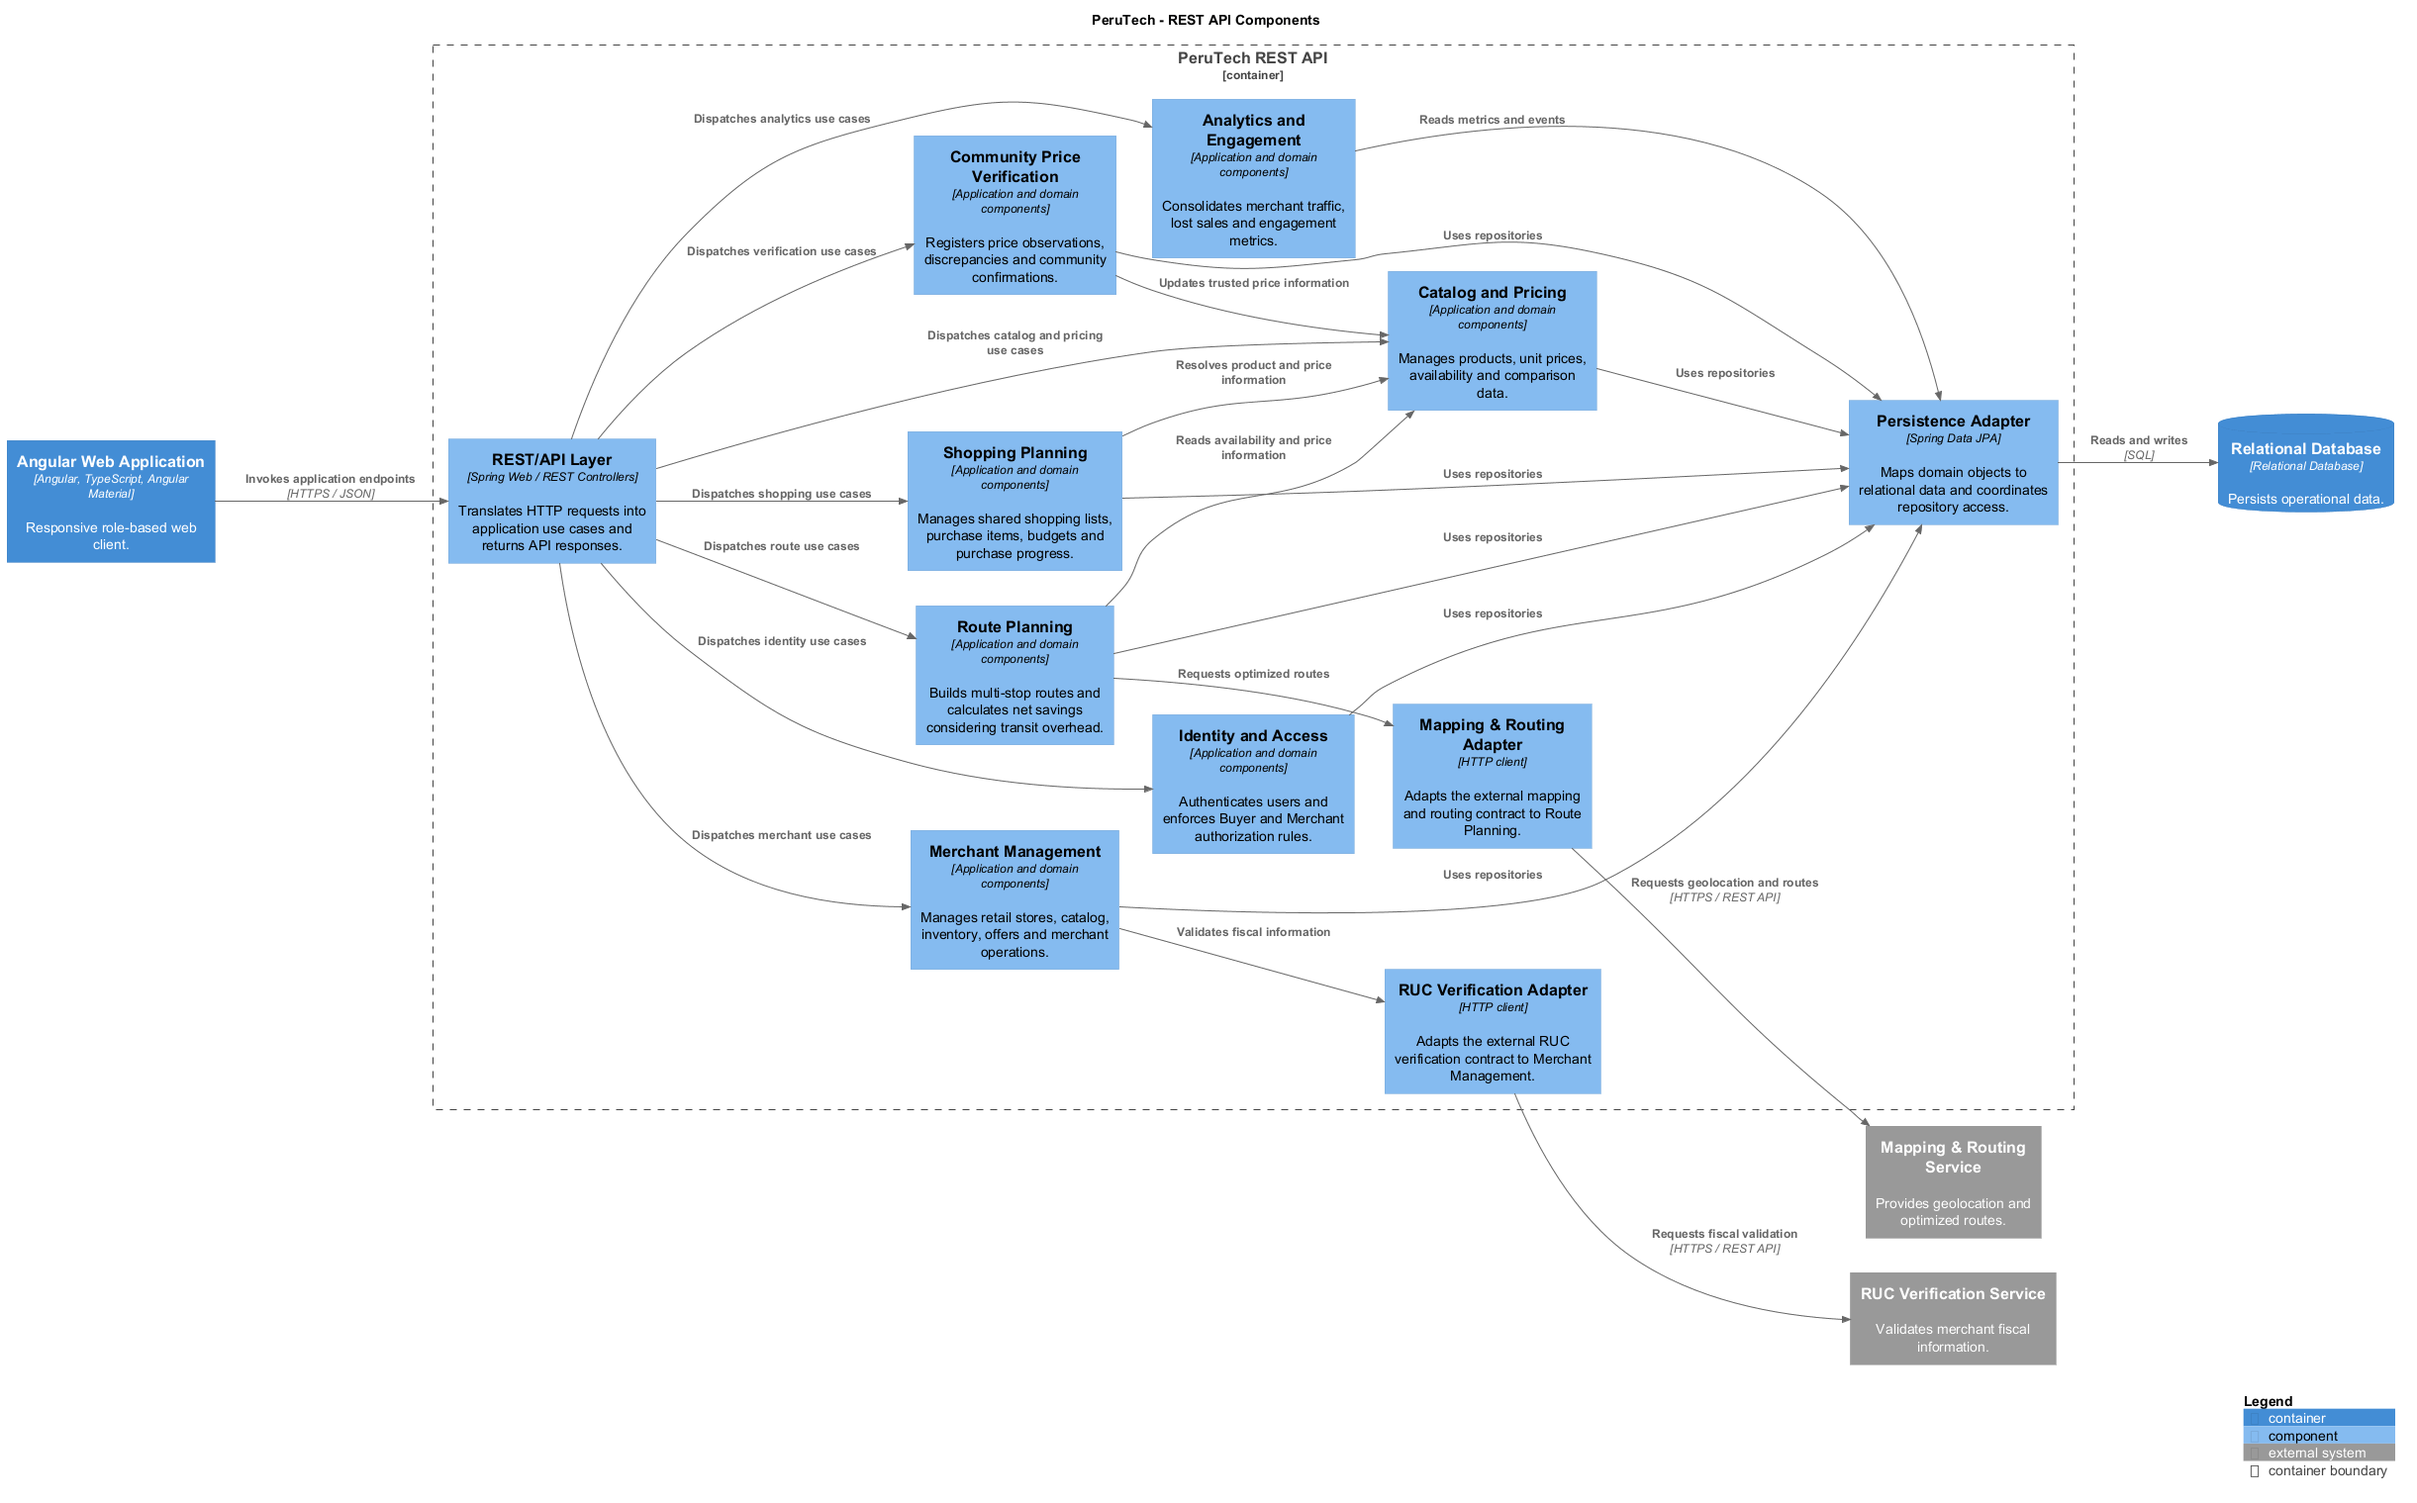
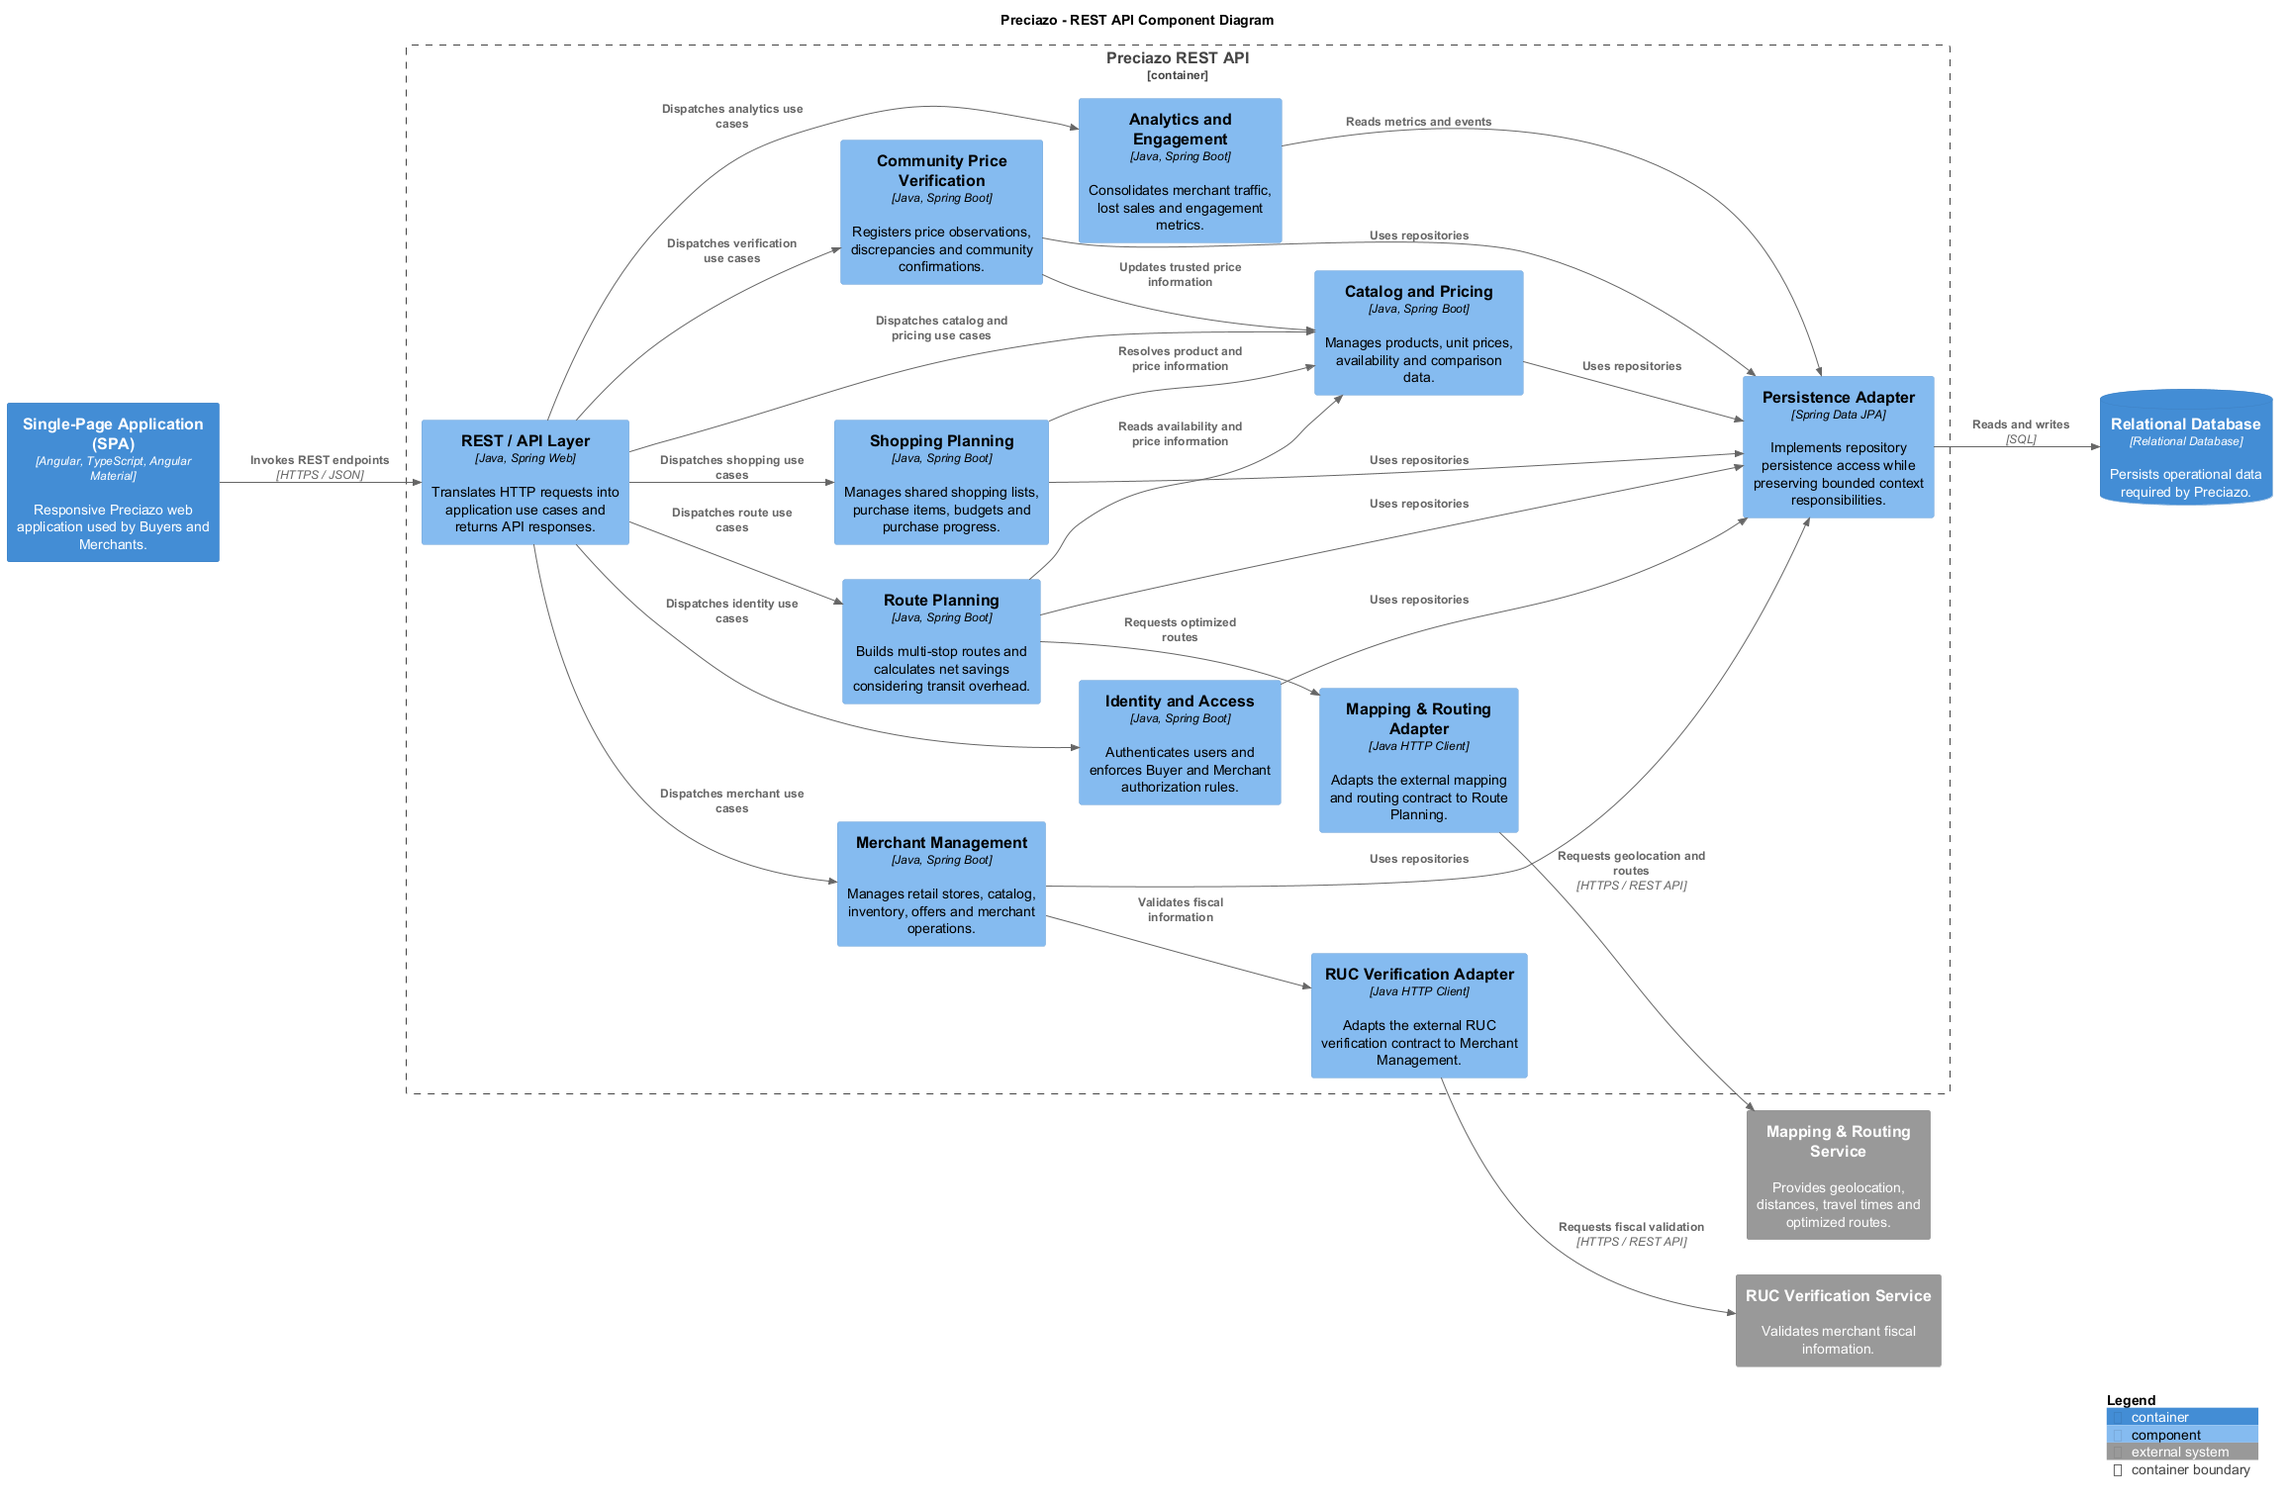
docs(architecture): align C4 components and report with Preciazo

diff --git a/docs/informe.md b/docs/informe.md
@@ -1526,19 +1526,25 @@ El resultado del proceso permitió organizar el dominio en siete Bounded Context
 
 ### 4.6.2. Software Architecture Context Diagram
 
-![PeruTech Software Architecture Context Diagram](../assets/architecture/c4-context.png)
+![Preciazo Software Architecture Context Diagram](../assets/architecture/c4-context.png)
 
 ### 4.6.3. Software Architecture Container Diagrams
 
-El diagrama de contenedores describe la arquitectura física y lógica de la solución. Se evidencia explícitamente la adopción de una **Single Page Application (SPA)** desarrollada en Angular para la experiencia interactiva tanto de compradores como comerciantes, interactuando asíncronamente con el API Gateway y microservicios RESTful en Java / Spring Boot, persistidos en una base de datos relacional:
+El diagrama de contenedores describe la arquitectura lógica de **Preciazo**. La Landing Page presenta el producto y proporciona acceso a la **Single-Page Application (SPA)** desarrollada con Angular, TypeScript y Angular Material para compradores y comerciantes. La SPA consume mediante HTTPS / JSON los endpoints de **Preciazo REST API**, una aplicación modular en Java / Spring Boot que persiste los datos operacionales en una base de datos relacional y se integra con Mapping & Routing Service y RUC Verification Service.
 
-![PeruTech Software Architecture Container Diagram](../assets/architecture/c4-container.png)
+![Preciazo Software Architecture Container Diagram](../assets/architecture/c4-container.png)
 
 ### 4.6.4. Software Architecture Components Diagrams
 
-El diagrama de componentes detalla la estructuración interna de los módulos alineados a Domain-Driven Design, evidenciando la arquitectura modular de la SPA Frontend y su conexión con los controladores RESTful del Backend:
+Los diagramas de componentes detallan por separado la estructura interna de la **Single-Page Application (SPA)** y de **Preciazo REST API**, manteniendo los siete Bounded Contexts definidos mediante Domain-Driven Design.
 
-![PeruTech Frontend Component Diagram](../assets/architecture/c4-components-frontend.png)
+En la SPA, las funcionalidades de cada contexto utilizan componentes de UI compartidos y servicios de aplicación que encapsulan las llamadas HTTP a la REST API. Router / Guards organiza la navegación según el rol del usuario.
+
+![Preciazo Frontend Component Diagram](../assets/architecture/c4-components-frontend.png)
+
+En el backend, la capa REST delega los casos de uso a los componentes de aplicación y dominio de los siete contextos. El Persistence Adapter implementa el acceso a repositorios mediante Spring Data JPA. Route Planning utiliza Mapping & Routing Adapter para las consultas de rutas, mientras que Merchant Management utiliza RUC Verification Adapter para la validación fiscal. Ambos adaptadores se comunican con sus respectivos servicios externos mediante HTTPS / REST API.
+
+![Preciazo Backend Component Diagram](../assets/architecture/c4-components-backend.png)
 
 ## 4.7. Software Object-Oriented Design
 
